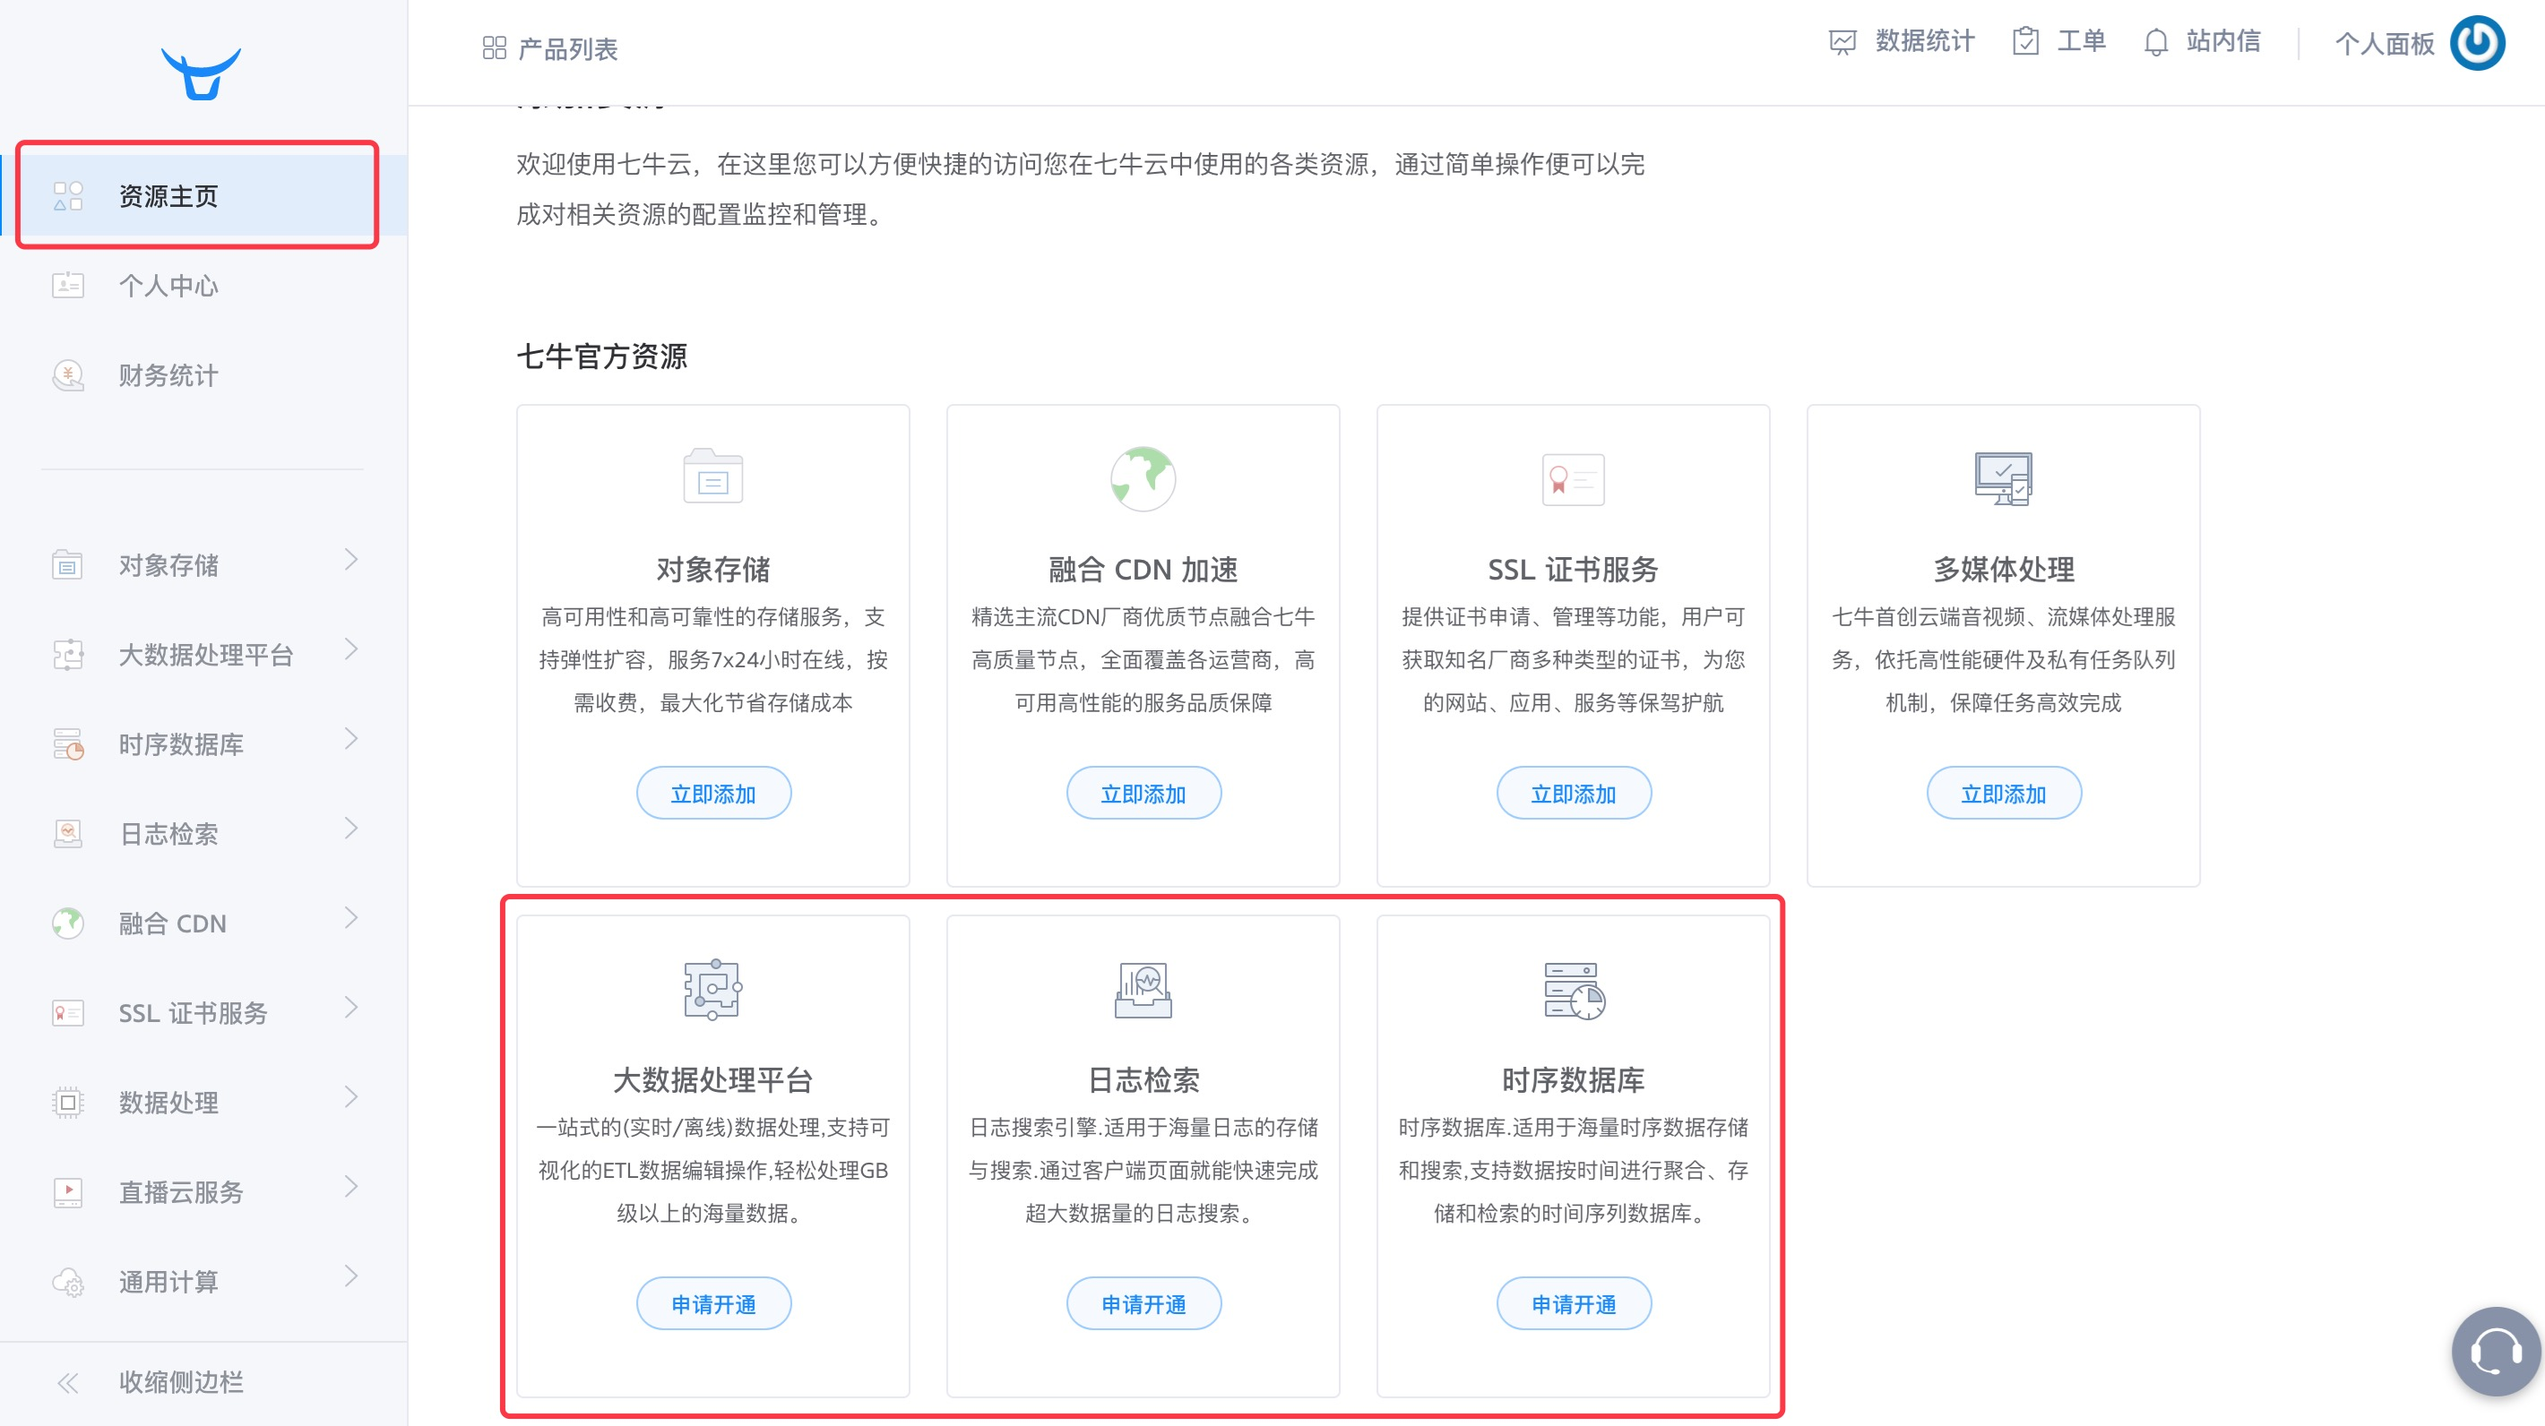
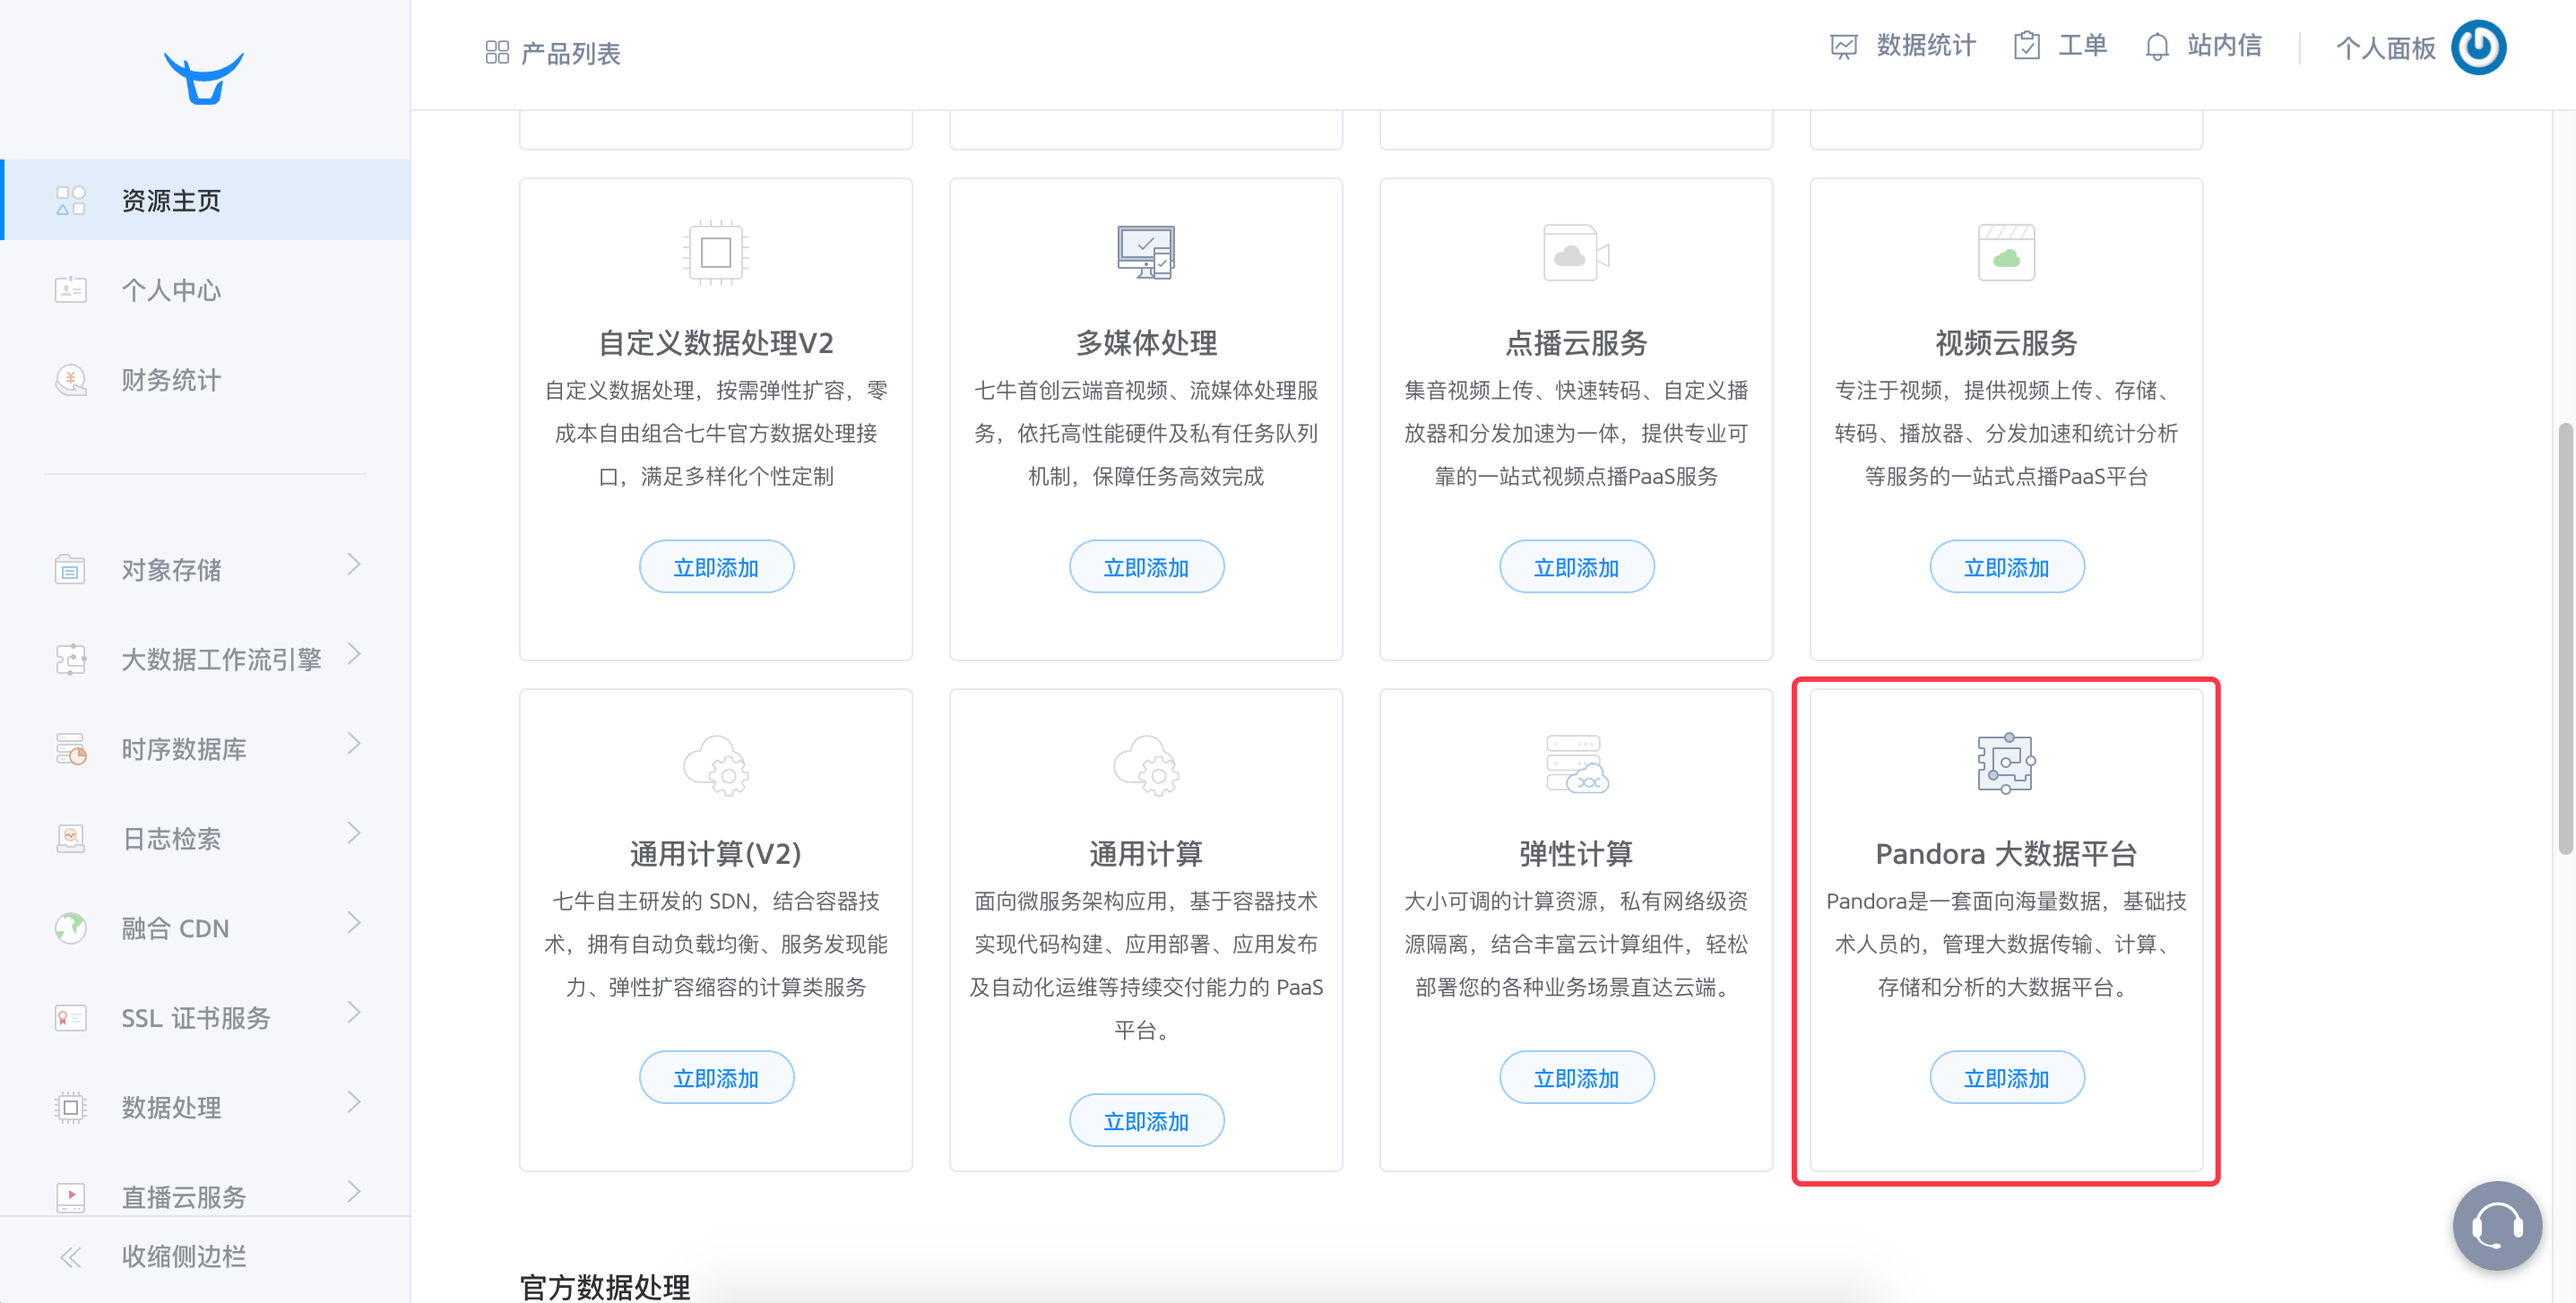
修改申请开通

diff --git a/getstarted/ready.md b/getstarted/ready.md
@@ -21,7 +21,7 @@
 
 ![](_media/createAK.png)
 
-(6). 点击<资源主页>按钮，进入产品列表页面，在`大数据工作流引擎`、`日志检索`、`时序数据库`下点击<申请开通>。
+(6). 点击<资源主页>按钮，进入产品列表页面，在`Pandora 大数据平台`下点击<申请开通>。
 
 ![](_media/register.png)
 
